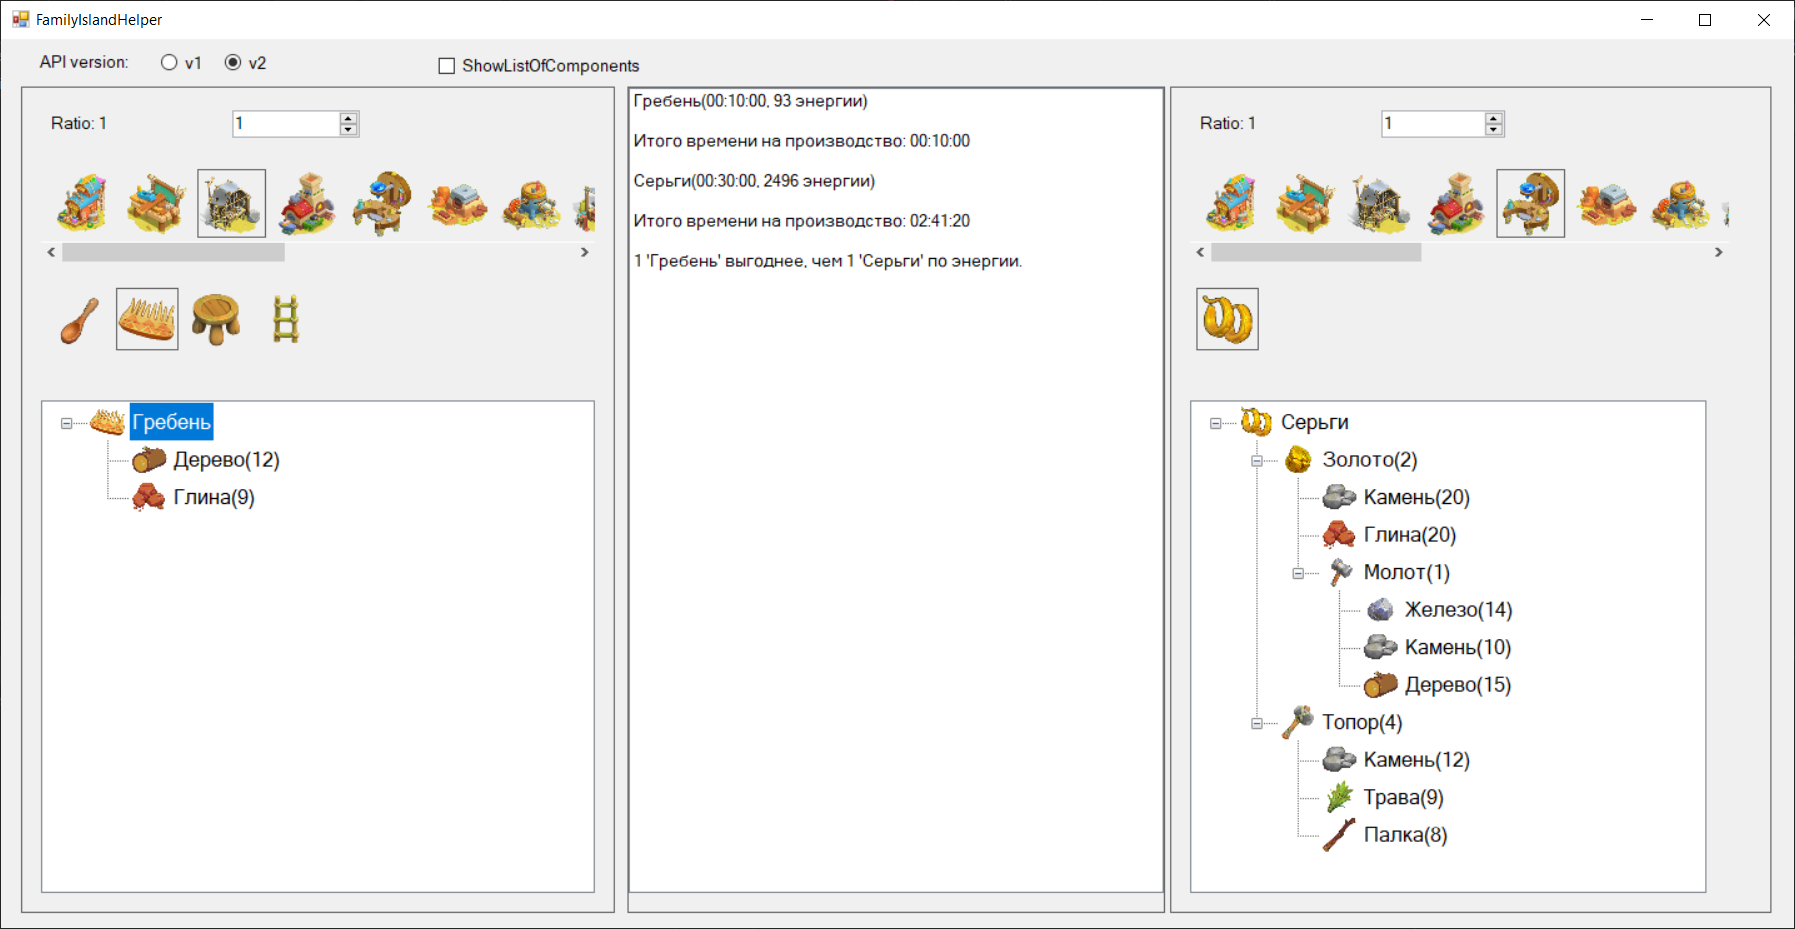
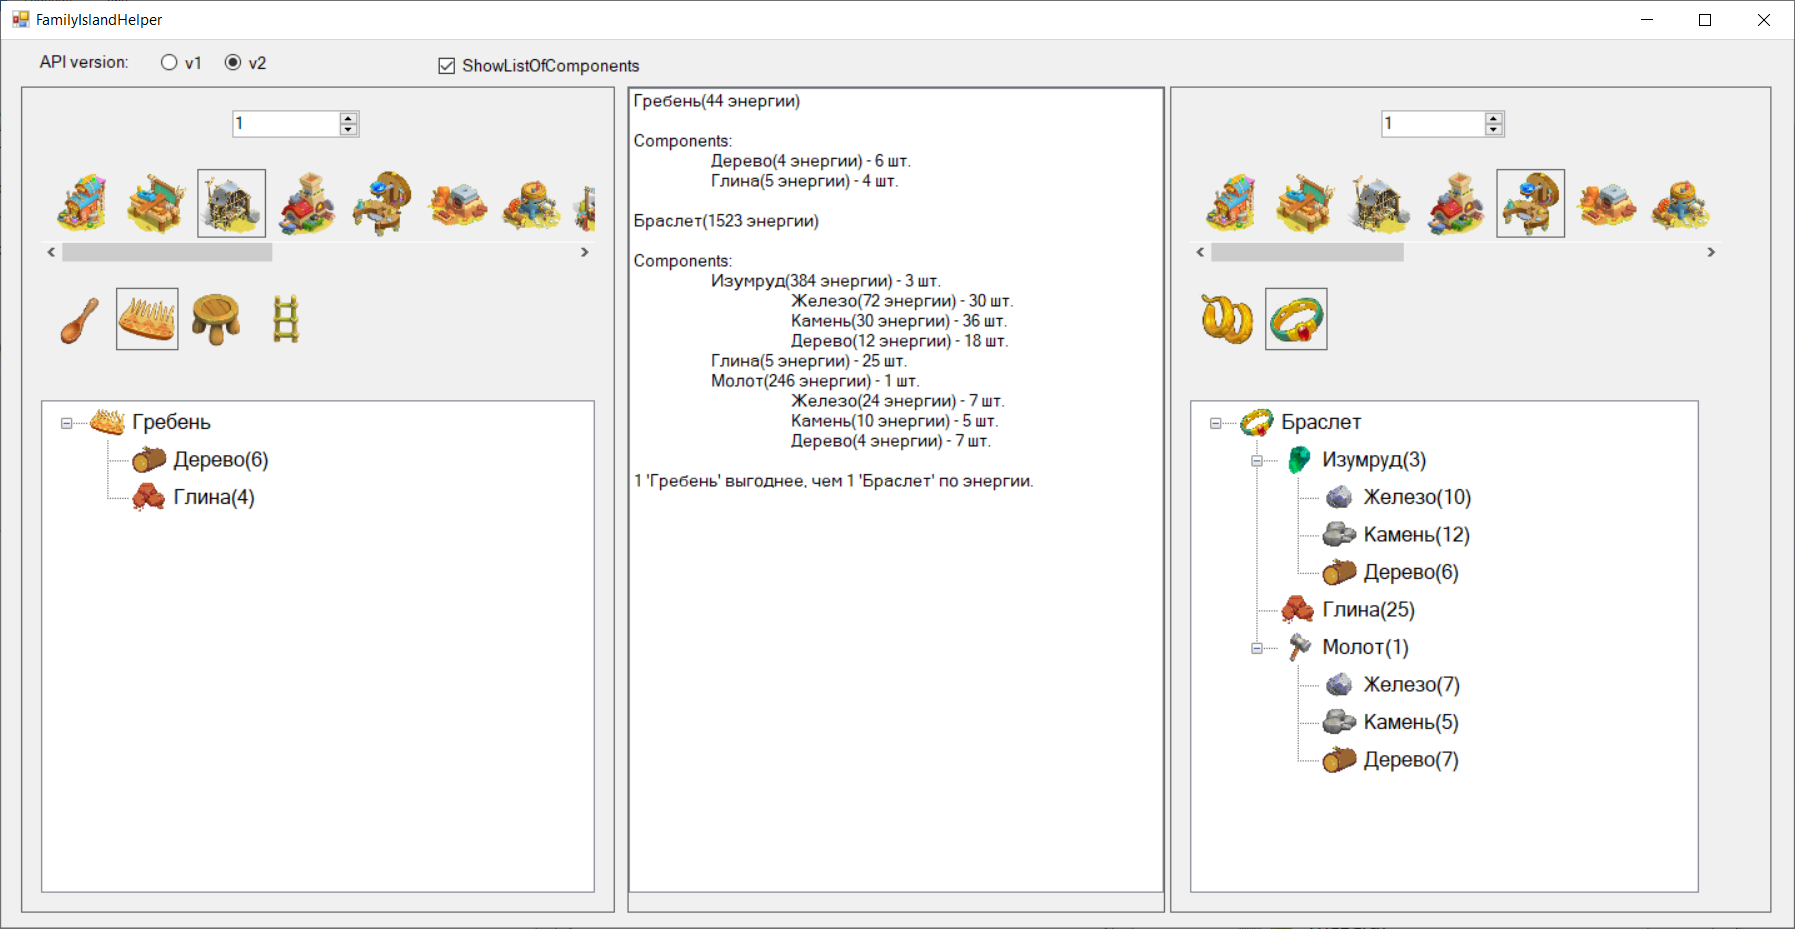
desktop: Update API to 1.3.0

diff --git a/FamilyIslandHelper.Desktop/MainForm.Designer.cs b/FamilyIslandHelper.Desktop/MainForm.Designer.cs
@@ -31,14 +31,12 @@
 			this.cb_showListOfComponents = new System.Windows.Forms.CheckBox();
 			this.splitContainer_main = new System.Windows.Forms.SplitContainer();
 			this.pnl_Buildings1 = new System.Windows.Forms.Panel();
-			this.lbl_Ratio1 = new System.Windows.Forms.Label();
 			this.num_Item1Count = new System.Windows.Forms.NumericUpDown();
 			this.tv_Components1 = new System.Windows.Forms.TreeView();
 			this.pnl_Items1 = new System.Windows.Forms.Panel();
 			this.splitContainer_second = new System.Windows.Forms.SplitContainer();
 			this.lb_Components = new System.Windows.Forms.ListBox();
 			this.pnl_Buildings2 = new System.Windows.Forms.Panel();
-			this.lbl_Ratio2 = new System.Windows.Forms.Label();
 			this.num_Item2Count = new System.Windows.Forms.NumericUpDown();
 			this.tv_Components2 = new System.Windows.Forms.TreeView();
 			this.pnl_Items2 = new System.Windows.Forms.Panel();
@@ -80,7 +78,6 @@
 			// splitContainer_main.Panel1
 			// 
 			this.splitContainer_main.Panel1.Controls.Add(this.pnl_Buildings1);
-			this.splitContainer_main.Panel1.Controls.Add(this.lbl_Ratio1);
 			this.splitContainer_main.Panel1.Controls.Add(this.num_Item1Count);
 			this.splitContainer_main.Panel1.Controls.Add(this.tv_Components1);
 			this.splitContainer_main.Panel1.Controls.Add(this.pnl_Items1);
@@ -104,15 +101,6 @@
 			this.pnl_Buildings1.Name = "pnl_Buildings1";
 			this.pnl_Buildings1.Size = new System.Drawing.Size(443, 85);
 			this.pnl_Buildings1.TabIndex = 11;
-			// 
-			// lbl_Ratio1
-			// 
-			this.lbl_Ratio1.AutoSize = true;
-			this.lbl_Ratio1.Location = new System.Drawing.Point(20, 20);
-			this.lbl_Ratio1.Name = "lbl_Ratio1";
-			this.lbl_Ratio1.Size = new System.Drawing.Size(80, 20);
-			this.lbl_Ratio1.TabIndex = 13;
-			this.lbl_Ratio1.Text = "Ratio: 1.5";
 			// 
 			// num_Item1Count
 			// 
@@ -175,7 +163,6 @@
 			// splitContainer_second.Panel2
 			// 
 			this.splitContainer_second.Panel2.Controls.Add(this.pnl_Buildings2);
-			this.splitContainer_second.Panel2.Controls.Add(this.lbl_Ratio2);
 			this.splitContainer_second.Panel2.Controls.Add(this.num_Item2Count);
 			this.splitContainer_second.Panel2.Controls.Add(this.tv_Components2);
 			this.splitContainer_second.Panel2.Controls.Add(this.pnl_Items2);
@@ -204,17 +191,8 @@
 			this.pnl_Buildings2.AutoScroll = true;
 			this.pnl_Buildings2.Location = new System.Drawing.Point(15, 55);
 			this.pnl_Buildings2.Name = "pnl_Buildings2";
-			this.pnl_Buildings2.Size = new System.Drawing.Size(431, 85);
+			this.pnl_Buildings2.Size = new System.Drawing.Size(425, 85);
 			this.pnl_Buildings2.TabIndex = 15;
-			// 
-			// lbl_Ratio2
-			// 
-			this.lbl_Ratio2.AutoSize = true;
-			this.lbl_Ratio2.Location = new System.Drawing.Point(20, 20);
-			this.lbl_Ratio2.Name = "lbl_Ratio2";
-			this.lbl_Ratio2.Size = new System.Drawing.Size(80, 20);
-			this.lbl_Ratio2.TabIndex = 14;
-			this.lbl_Ratio2.Text = "Ratio: 1.5";
 			// 
 			// num_Item2Count
 			// 
@@ -248,7 +226,7 @@
 			this.tv_Components2.ItemHeight = 30;
 			this.tv_Components2.Location = new System.Drawing.Point(15, 250);
 			this.tv_Components2.Name = "tv_Components2";
-			this.tv_Components2.Size = new System.Drawing.Size(413, 394);
+			this.tv_Components2.Size = new System.Drawing.Size(407, 394);
 			this.tv_Components2.TabIndex = 12;
 			this.tv_Components2.AfterSelect += new System.Windows.Forms.TreeViewEventHandler(this.tv_Components_AfterSelect);
 			// 
@@ -259,7 +237,7 @@
 			this.pnl_Items2.AutoScroll = true;
 			this.pnl_Items2.Location = new System.Drawing.Point(15, 150);
 			this.pnl_Items2.Name = "pnl_Items2";
-			this.pnl_Items2.Size = new System.Drawing.Size(413, 90);
+			this.pnl_Items2.Size = new System.Drawing.Size(407, 90);
 			this.pnl_Items2.TabIndex = 11;
 			// 
 			// rb_v1
@@ -311,14 +289,12 @@
 			this.StartPosition = System.Windows.Forms.FormStartPosition.CenterScreen;
 			this.Text = "FamilyIslandHelper";
 			this.splitContainer_main.Panel1.ResumeLayout(false);
-			this.splitContainer_main.Panel1.PerformLayout();
 			this.splitContainer_main.Panel2.ResumeLayout(false);
 			((System.ComponentModel.ISupportInitialize)(this.splitContainer_main)).EndInit();
 			this.splitContainer_main.ResumeLayout(false);
 			((System.ComponentModel.ISupportInitialize)(this.num_Item1Count)).EndInit();
 			this.splitContainer_second.Panel1.ResumeLayout(false);
 			this.splitContainer_second.Panel2.ResumeLayout(false);
-			this.splitContainer_second.Panel2.PerformLayout();
 			((System.ComponentModel.ISupportInitialize)(this.splitContainer_second)).EndInit();
 			this.splitContainer_second.ResumeLayout(false);
 			((System.ComponentModel.ISupportInitialize)(this.num_Item2Count)).EndInit();
@@ -330,13 +306,11 @@
 		#endregion
 		private System.Windows.Forms.CheckBox cb_showListOfComponents;
 		private System.Windows.Forms.SplitContainer splitContainer_main;
-		private System.Windows.Forms.Label lbl_Ratio1;
 		private System.Windows.Forms.NumericUpDown num_Item1Count;
 		private System.Windows.Forms.TreeView tv_Components1;
 		private System.Windows.Forms.Panel pnl_Items1;
 		private System.Windows.Forms.SplitContainer splitContainer_second;
 		private System.Windows.Forms.ListBox lb_Components;
-		private System.Windows.Forms.Label lbl_Ratio2;
 		private System.Windows.Forms.NumericUpDown num_Item2Count;
 		private System.Windows.Forms.TreeView tv_Components2;
 		private System.Windows.Forms.Panel pnl_Items2;

diff --git a/FamilyIslandHelper.Desktop/MainForm.cs b/FamilyIslandHelper.Desktop/MainForm.cs
@@ -182,19 +182,16 @@ namespace FamilyIslandHelper.Desktop
 		private void ShowListOfItemsForBuilding(string buildingName, int panelNumber)
 		{
 			var itemsNames = buildingHelper.GetItemsOfBuilding(buildingName);
-			var ratio = buildingHelper.CreateBuilding(buildingName).ProduceRatio.ToString();
 
 			if (panelNumber == 1)
 			{
 				tv_Components1.Nodes.Clear();
-				lbl_Ratio1.Text = "Ratio: " + ratio;
 
 				InitItemsPanels(buildingName, itemsNames, panelNumber, pnl_Items1);
 			}
 			else if (panelNumber == 2)
 			{
 				tv_Components2.Nodes.Clear();
-				lbl_Ratio2.Text = "Ratio: " + ratio;
 
 				InitItemsPanels(buildingName, itemsNames, panelNumber, pnl_Items2);
 			}
@@ -236,7 +233,7 @@ namespace FamilyIslandHelper.Desktop
 				panels[i] = panel;
 			}
 
-			panels = panels.OrderBy(p => GetItem(p).LevelWhenAppears).ThenBy(p => GetItem(p).TotalProduceTime).ToArray();
+			panels = panels.OrderBy(p => GetItem(p).LevelWhenAppears).ToArray();
 
 			for (var i = 0; i < panels.Length; i++)
 			{
